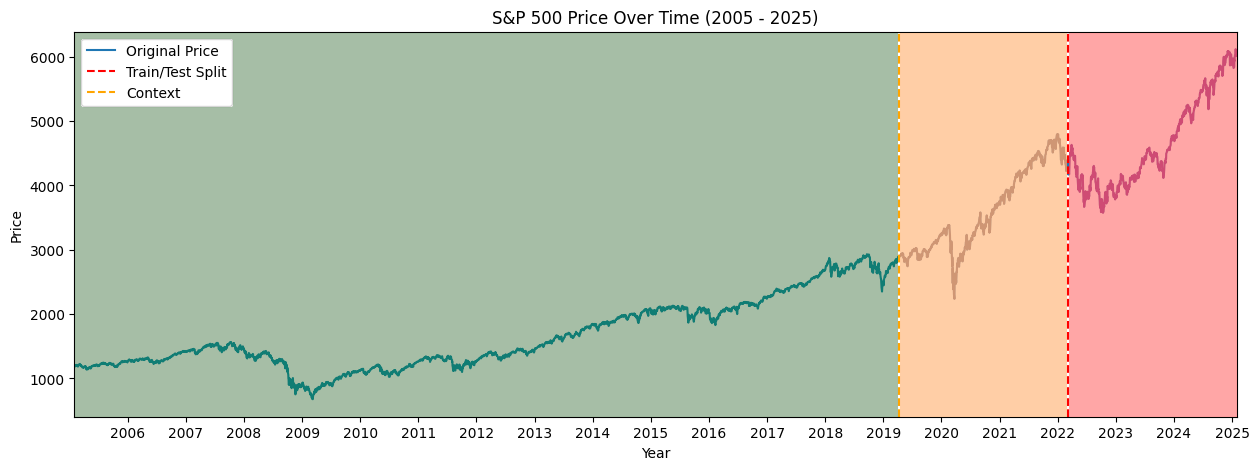
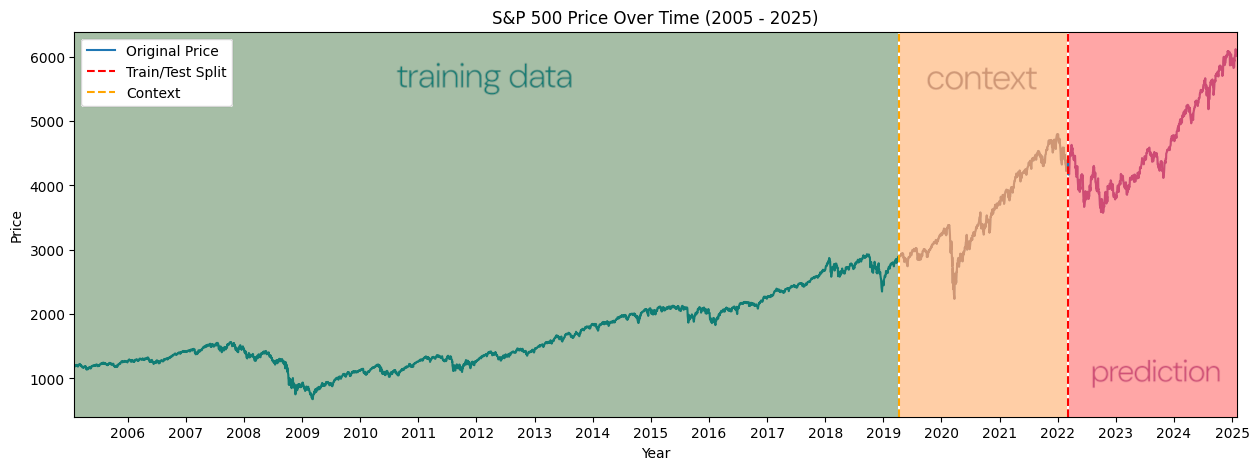
add badge, update diagram

Changed region(s): [[0.3098, 0.1489, 0.4647, 0.2085], [0.8674, 0.7745, 0.9603, 0.834], [0.7434, 0.1489, 0.8364, 0.2085]]

diff --git a/README.md b/README.md
@@ -2,19 +2,24 @@
 
 <hr/>
 
+![](https://img.shields.io/badge/Keras-FF0000?style=for-the-badge&logo=keras&logoColor=white) ![](https://img.shields.io/badge/PyTorch-EE4C2C?style=for-the-badge&logo=pytorch&logoColor=white) ![](https://img.shields.io/badge/TensorFlow-FF6F00?style=for-the-badge&logo=tensorflow&logoColor=white) ![](https://img.shields.io/badge/Weights_&_Biases-FFBE00?style=for-the-badge&logo=WeightsAndBiases&logoColor=white) ![](https://img.shields.io/badge/-HuggingFace-FDEE21?style=for-the-badge&logo=HuggingFace&logoColor=black)
+
 **Benchstreet** is a curated collection of time series prediction models designed to help developers evaluate and compare the performance of different approaches in **one-shot**, **long-term** financial data forecasting.
 
 The models are trained on 20 years of S&P 500 daily closing prices provided by [Investing.com](https://investing.com/indices/us-spx-500-historical-data).
 
-- **Important**: this is not an objective benchmark! It's intended as a qualitative guide and a reference on how to implement these models.
+> [!IMPORTANT]
+> This is not an objective benchmark! It's intended as a qualitative guide and a reference on how to implement these models.
 
-<img src="docs/images/diagram.png"/>
+![](docs/images/diagram.png)
+
+<hr />
 
 ### Table of Contents
 
 | Model Type                           |                                                       |
 |--------------------------------------|-------------------------------------------------------|
-| Transformer/Foundation Models        | TimesFM ([baseline](#timesfm-baseline) • [**fine-tuned**](#timesfm-fine-tuned)), Chronos ([baseline](#chronos-baseline) • [**fine tuned**](#chronos-fine-tuned)) |
+| Transformer/Foundation Models        | TimesFM ([baseline](#timesfm-baseline) • [**fine-tuned**](#timesfm-fine-tuned)), Chronos ([baseline](#chronos-baseline) • [**fine-tuned**](#chronos-fine-tuned)) |
 | Feedforward Neural Networks (FNNs)   | MLP ([recursive](#mlp-recursive) • [vector](#mlp-vector)), N-BEATS ([direct](#n-beats)) |
 | Convolutional Neural Networks (CNNs) | 1D-CNN ([recursive](#1d-cnn-recursive) • [vector](#1d-cnn-vector)), TemporalCN ([vector](#temporalcn)) |
 | Recurrent Neural Networks (RNNs)     | LSTM ([recursive](#lstm-recursive) • [vector](#lstm-vector) • [encoder-decoder](#lstm-encoder-decoder)), GRU ([recursive](#gru-recursive) • [vector](#gru-vector)) |
@@ -23,7 +28,7 @@ The models are trained on 20 years of S&P 500 daily closing prices provided by [
 Want a model added to this list? Raise an issue [here](https://github.com/puffinsoft/benchstreet/issues) or [make a PR](https://github.com/puffinsoft/benchstreet/pulls)!
 
 > [!TIP]
-> **The winner**: N-BEATS. High accuracy with extremely low training time. For even higher accuracy, consider fine-tuning TimesFM for your dataset.
+> **The winner**: [N-BEATS](#n-beats). High accuracy with extremely low training time.
 
 <hr />
 
